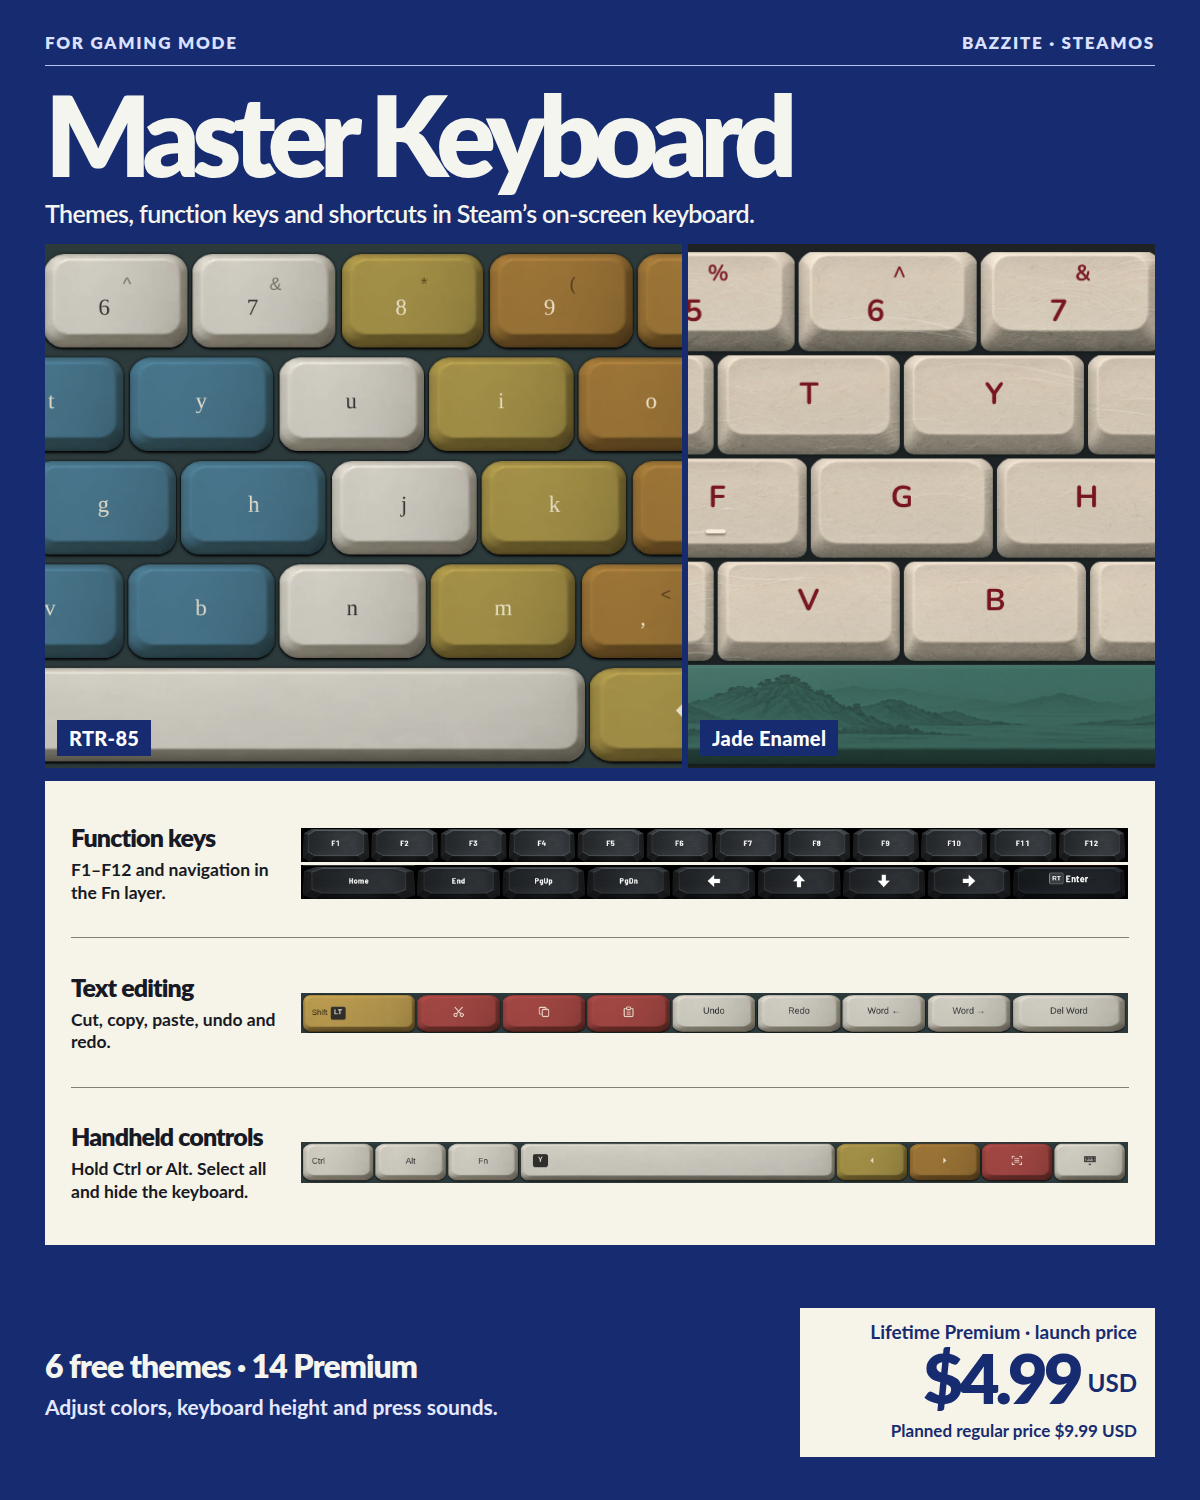
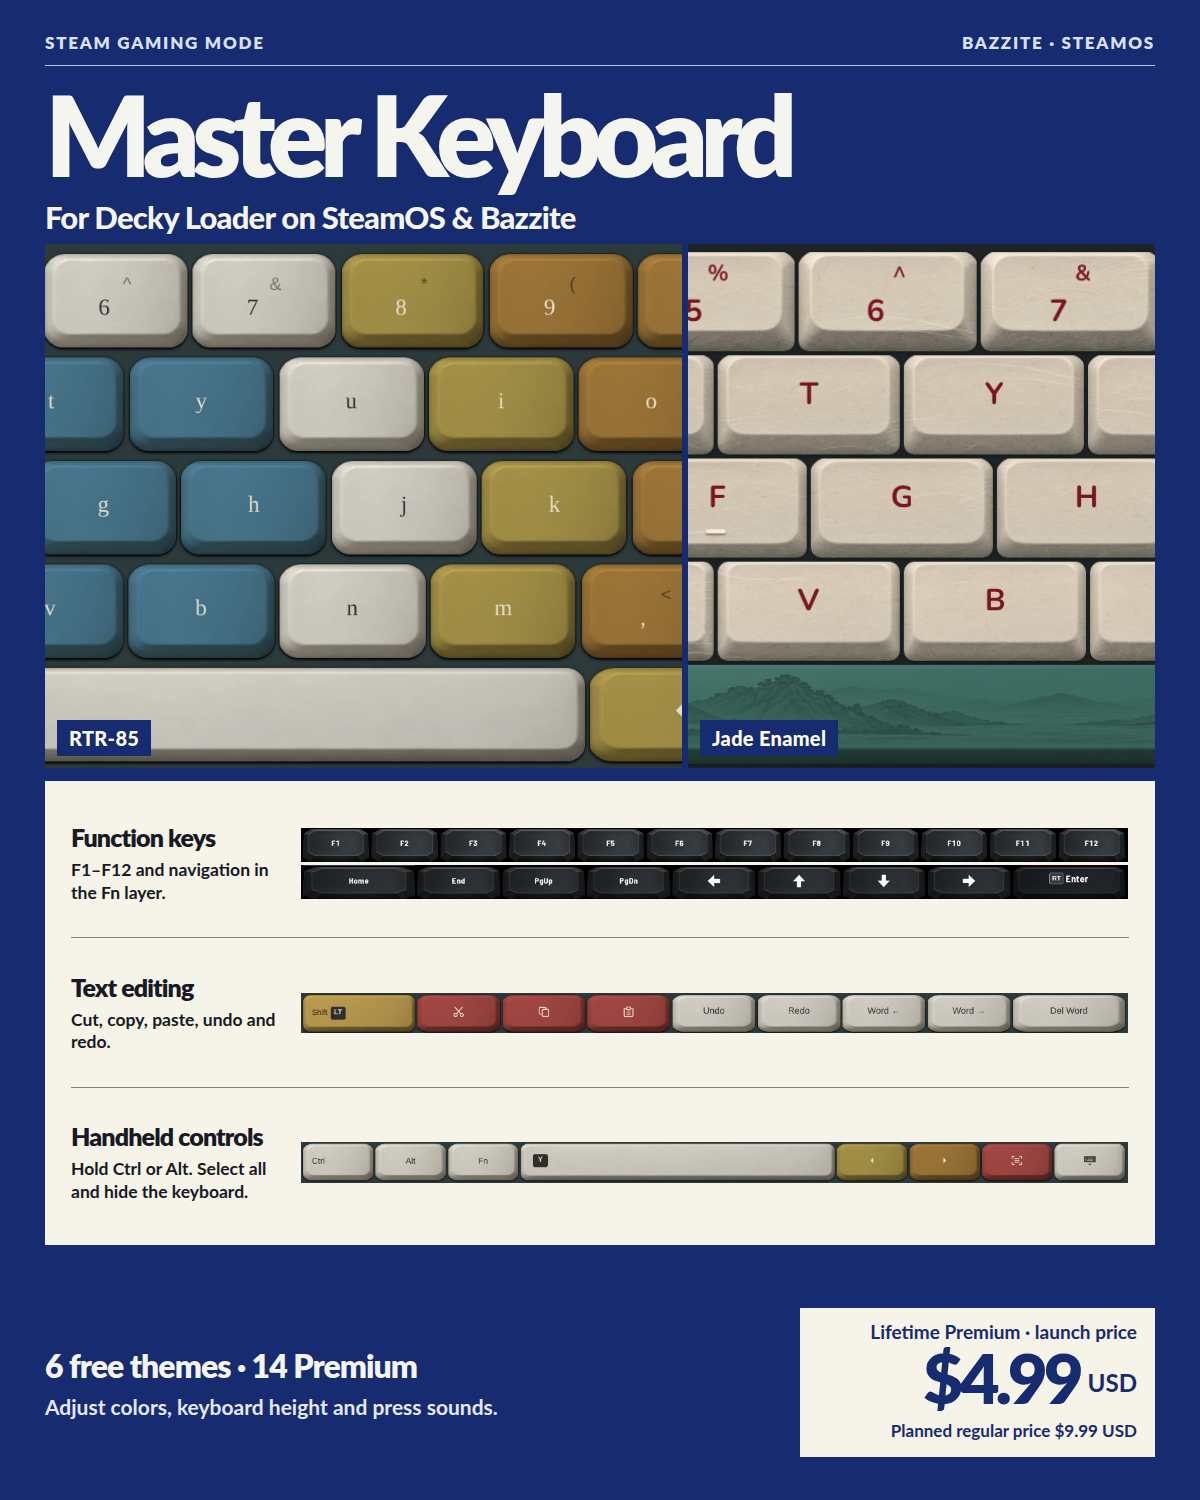
Update v1.0.0 guide and platform labels

Changed region(s): [[0.0308, 0.1227, 0.6167, 0.1533], [0.0308, 0.0, 0.2158, 0.0307]]

diff --git a/README.md b/README.md
@@ -2,7 +2,7 @@
 
 Master Keyboard redesigns Steam’s on-screen keyboard for **Bazzite and SteamOS Gaming Mode**. The Decky Loader plugin adds function keys, text editing shortcuts, controller feedback and customizable keyboard themes for handheld play.
 
-[**Download v0.3.0-beta.1 for Decky Loader**](https://github.com/soullegacyvn-ux/Master-Keyboard/releases/tag/v0.3.0-beta.1)
+[**Download v1.0.0 for Decky Loader**](https://github.com/soullegacyvn-ux/Master-Keyboard/releases/tag/v1.0.0)
 
 ![Master Keyboard poster showing cropped keycaps from Jade Enamel, Wukong, RTC-86, RTR-85 and Cyber Alloy](master-keyboard.png)
 
@@ -26,7 +26,7 @@ If Decky is already installed, skip to the next section.
 
 ### 2. Import the Master Keyboard ZIP
 
-1. In Desktop Mode, download [**Master-Keyboard-0.3.0-beta.1.zip**](https://github.com/soullegacyvn-ux/Master-Keyboard/releases/download/v0.3.0-beta.1/Master-Keyboard-0.3.0-beta.1.zip) to **Downloads** and leave it zipped.
+1. In Desktop Mode, download [**Master-Keyboard-1.0.0.zip**](https://github.com/soullegacyvn-ux/Master-Keyboard/releases/download/v1.0.0/Master-Keyboard-1.0.0.zip) to **Downloads** and leave it zipped.
 2. Return to Gaming Mode. Open the Quick Access Menu (**…**) and select the **Decky** plug icon.
 3. Select the **Settings** gear. Under **General**, turn on **Developer mode**.
 4. Open **Developer**, choose **Install Plugin from ZIP File**, select the downloaded ZIP, and confirm the installation.
@@ -36,7 +36,7 @@ If you use another Steam keyboard theme in CSS Loader, disable it before enablin
 
 ## Free and Premium themes
 
-The public beta includes **six playable themes** and **14 locked theme previews**. PayPal checkout and purchase recovery will open with the Premium launch. The planned one-time launch price is **$4.99 USD**, with an intended regular price of **$9.99 USD** after launch.
+The first Free release includes **six playable themes** and **14 locked theme previews**. PayPal checkout and purchase recovery will open with the Premium launch. The planned one-time launch price is **$4.99 USD**, with an intended regular price of **$9.99 USD** after launch.
 
 ## Feedback
 
